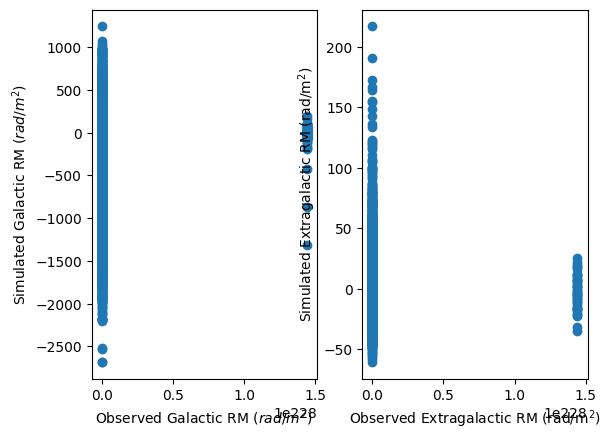
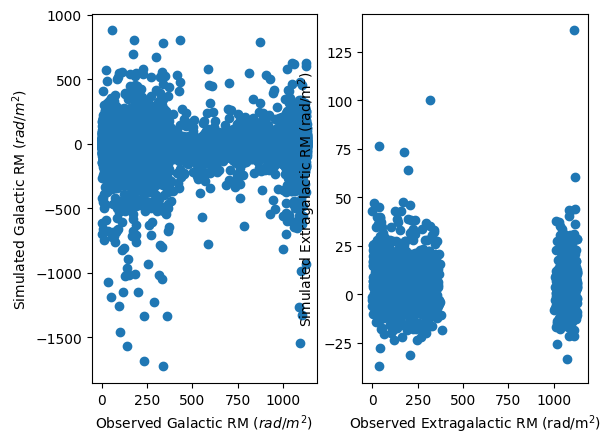
Correction of the noise settings for survey setup.

diff --git a/catalog_maker.py b/catalog_maker.py
@@ -22,7 +22,7 @@ class CatalogMaker():
             Egf.get_rm(filter_pulsars=True, version='custom', default_error_level=0.5)
 
         self.dest_data = self.dest_catalog if self.dest_catalog is not None else \
-            Egf.get_rm(filter_pulsars=True, version='custom', default_error_level=0.5)     
+            self.src_catalog     
 
         
 
@@ -40,13 +40,20 @@ class CatalogMaker():
 
         los=self.params['params_mock_cat.maker_params.n_los']
 
-
-        if self.params['params_mock_cat.maker_params.surveys.make_survey2'] == True:
-            bel_indices=np.where(abs(dest_data['b'][np.where(dest_data['catalog']==self.params['params_mock_cat.maker_params.surveys.name'])[0]])>self.params['params_mock_cat.maker_params.elev_th'])[0] 
-        else:
-            bel_indices=np.where(abs(dest_data['b'])>self.params['params_mock_cat.maker_params.elev_th'])[0] 
+        if self.params['params_mock_cat.maker_params.polar_caps'] == True:
+            if self.params['params_mock_cat.maker_params.surveys.make_survey'] == True:
+                b_sel_indices=np.where(abs(dest_data['b'][np.where(dest_data['catalog']==self.params['params_mock_cat.maker_params.surveys.name'])[0]])>self.params['params_mock_cat.maker_params.elev_th'])[0] 
+            else:
+                b_sel_indices=np.where(abs(dest_data['b'])>self.params['params_mock_cat.maker_params.elev_th'])[0] 
+        if self.params['params_mock_cat.maker_params.make_fraction'] == True:
+            los=np.int(self.params['params_mock_cat.maker_params.fraction']*dest_data['b'].size)
+            if self.params['params_mock_cat.maker_params.surveys.make_survey'] == True:
+                b_sel_indices=np.where(dest_data['catalog']==self.params['params_mock_cat.maker_params.surveys.name'])[0] 
+            else:
+                b_sel_indices=np.arange(0,dest_data['b'].size) 
+        
         np.random.seed(seed=self.params['params_mock_cat.maker_params.seed'])
-        z_mock_indices=np.unique(np.random.choice(bel_indices, size=los))
+        z_mock_indices=np.unique(np.random.choice(b_sel_indices, size=los))
         print('Number of LOS with redshift', len(z_mock_indices) )
 
 
@@ -55,6 +62,7 @@ class CatalogMaker():
 
         dest_data['z_best'][:] = np.nan
         dest_data['z_best'][z_mock_indices] = z_mock
+
 
         F_all = np.array(src_data['stokesI'])
         F_indices = np.where(F_all>0)[0]
@@ -124,31 +132,60 @@ class CatalogMaker():
 
         rm_data=np.array(eg_gal_data.val)
 
-        #creating mock sigma gal
-        #NVSS cat 2009ApJ...702.1230T
-        #LoTSS cat "LoTSS DR2 (O'Sullivan et al. 2022) "
-        cat_index_gal=np.where(src_data['catalog']==self.params['params_mock_cat.maker_params.cat_gal'])[0][~np.isnan(np.where(src_data['catalog']==self.params['params_mock_cat.maker_params.cat_gal'])[0])]
-        sigma_gal = src_data['rm_err'][cat_index_gal]
-        histogram_sigma_gal = rv_histogram(np.histogram(sigma_gal, bins=10000), density=False)
-        sigma_gal_mock=histogram_sigma_gal.rvs(size=ltheta-lerm)
-        sigma_gal_mock_field=ift.Field.from_raw(ift.UnstructuredDomain(ltheta-lerm),np.array(sigma_gal_mock))
-        N_gal = ift.DiagonalOperator(sigma_gal_mock_field**2, domain=ift.UnstructuredDomain(ltheta-lerm), sampling_dtype=np.float64)
+
+        if self.params['params_mock_cat.maker_params.surveys.make_survey'] == True:
+          
+            cat_index_1=np.where(dest_data['catalog']==self.params['params_mock_cat.maker_params.surveys.name'])[0]
+            sigma_1 = src_data['rm_err'][np.where(src_data['catalog']==self.params['params_mock_cat.maker_params.surveys.cat'])[0]]
+            histogram_sigma_1 = rv_histogram(np.histogram(sigma_1, bins=100), density=False)
+            sigma_1_mock=histogram_sigma_1.rvs(size=cat_index_1.size)
+            sigma_mock=np.empty(dest_data['catalog'].size)
+            sigma_mock[cat_index_1]=sigma_1_mock
+            print('sigma_mock cat1', sigma_1_mock.mean())
+
+            if self.params['params_mock_cat.maker_params.surveys.make_survey2'] == True:
+                cat_index_2=np.where(dest_data['catalog']==self.params['params_mock_cat.maker_params.surveys.name2'])[0]
+                sigma_2 = src_data['rm_err'][np.where(src_data['catalog']==self.params['params_mock_cat.maker_params.surveys.cat2'])[0]]
+                histogram_sigma_2 = rv_histogram(np.histogram(sigma_2, bins=100), density=False)
+                sigma_2_mock=histogram_sigma_2.rvs(size=cat_index_2.size)
+                sigma_mock[cat_index_2]=sigma_2_mock
+                print('sigma_mock cat2', sigma_2_mock.mean())
+                
+            sigma_mock_field=ift.Field.from_raw(ift.UnstructuredDomain(dest_data['catalog'].size),np.array(sigma_mock))
+            N = ift.DiagonalOperator(sigma_mock_field**2, domain=ift.UnstructuredDomain(sigma_mock_field.size), sampling_dtype=np.float64)
+
+            rm_data+= N.draw_sample().val
+            
+            
+
+        else:
+
+            #creating mock sigma gal
+            #NVSS cat 2009ApJ...702.1230T
+            #LoTSS cat "LoTSS DR2 (O'Sullivan et al. 2022) "
+            cat_index_gal=np.where(src_data['catalog']==self.params['params_mock_cat.maker_params.cat_gal'])[0][~np.isnan(np.where(src_data['catalog']==self.params['params_mock_cat.maker_params.cat_gal'])[0])]
+            sigma_gal = src_data['rm_err'][cat_index_gal]
+            histogram_sigma_gal = rv_histogram(np.histogram(sigma_gal, bins=10000), density=False)
+            sigma_gal_mock=histogram_sigma_gal.rvs(size=ltheta-lerm)
 
 
-        ### rm data assembly ###
-        rm_data[np.isnan(dest_data['z_best'])] +=  N_gal.draw_sample().val
-        print(rm_data.min(), rm_data.max(), rm_data.mean())
-
-        #creating mock sigma eg
-        cat_index_eg=np.where(src_data['catalog']==self.params['params_mock_cat.maker_params.cat_eg'])[0][~np.isnan(np.where(src_data['catalog']==self.params['params_mock_cat.maker_params.cat_eg'])[0])]
-        sigma_eg = src_data['rm_err'][cat_index_eg]
-        histogram_sigma_eg = rv_histogram(np.histogram(sigma_eg, bins=100), density=False)
-        sigma_eg_mock=histogram_sigma_eg.rvs(size=lerm)
-        sigma_eg_mock_field=ift.Field.from_raw(ift.UnstructuredDomain(lerm),np.array(sigma_eg_mock))
-        N_eg = ift.DiagonalOperator(sigma_eg_mock_field**2, domain=ift.UnstructuredDomain(lerm), sampling_dtype=np.float64)
-        rm_data[z_indices]+= N_eg.draw_sample().val
+            #creating mock sigma eg
+            cat_index_eg=np.where(src_data['catalog']==self.params['params_mock_cat.maker_params.cat_eg'])[0][~np.isnan(np.where(src_data['catalog']==self.params['params_mock_cat.maker_params.cat_eg'])[0])]
+            sigma_eg = src_data['rm_err'][cat_index_eg]
+            histogram_sigma_eg = rv_histogram(np.histogram(sigma_eg, bins=100), density=False)
+            sigma_eg_mock=histogram_sigma_eg.rvs(size=lerm)
 
 
+
+            sigma_mock=np.empty(ltheta)
+            sigma_mock[np.isnan(dest_data['z_best'])] = sigma_gal_mock
+            sigma_mock[z_indices] = sigma_eg_mock
+            sigma_mock_field=ift.Field.from_raw(ift.UnstructuredDomain(ltheta),np.array(sigma_mock))
+            N = ift.DiagonalOperator(sigma_mock_field**2, domain=ift.UnstructuredDomain(ltheta), sampling_dtype=np.float64)
+
+            rm_data+= N.draw_sample().val
+            print('sigma_mock eg', sigma_eg_mock.mean())
+            print('sigma_mock gal', sigma_gal_mock.mean())
 
         if self.params['params_mock_cat.maker_params.eg_on']==True:
             np.random.seed(seed=self.params['params_mock_cat.maker_params.seed'])
@@ -160,9 +197,7 @@ class CatalogMaker():
             print('mean',np.mean(egal_contr))
 
         noised_rm_data=ift.makeField(ift.UnstructuredDomain(ltheta), rm_data)
-        #Print noise
-        print('Gal noise', N_gal.draw_sample().val.std())
-        print('Egal noise', N_eg.draw_sample().val.std())
+
 
 
 
@@ -185,8 +220,9 @@ class CatalogMaker():
         plt.savefig('Mock_cat_obs_vs_sim.png', bbox_inches='tight')
 
         dest_data['rm'] = np.array(noised_rm_data.val)
-        dest_data['rm_err'][np.isnan(dest_data['z_best'])] =  sigma_gal_mock*np.ones(ltheta-lerm)
-        dest_data['rm_err'][~np.isnan(dest_data['z_best'])] =  sigma_eg_mock*np.ones(lerm)
+        dest_data['rm_err'] =  sigma_mock
+        #dest_data['rm_err'][np.isnan(dest_data['z_best'])] =  sigma_gal_mock*np.ones(ltheta-lerm)
+        #dest_data['rm_err'][~np.isnan(dest_data['z_best'])] =  sigma_eg_mock*np.ones(lerm)
         
         if self.params['params_mock_cat.maker_params.surveys.make_survey']==True:
             hdu= fits.open(self.params['params_inference.cat_path']+ self.params['params_mock_cat.maker_params.surveys.name']+'_catalog.fits')

diff --git a/survey_maker.py b/survey_maker.py
@@ -76,7 +76,7 @@ class SurveyMaker():
         dataref=np.empty(size_cat)
         cat_id=np.empty(size_cat)
         types=np.empty(size_cat)
-        notes=np.empty(size_cat)
+        notes=np.empty(size_cat, dtype='S10')
         z_best=np.empty(size_cat)
 
 
@@ -123,12 +123,20 @@ class SurveyMaker():
             all_indices[survey_indices2]=2
             catalog[params['params_mock_cat.maker_params.surveys.los']:]=params['params_mock_cat.maker_params.surveys.name2']
 
+            l=np.concatenate([l1,l2])
+            b=np.concatenate([b1,b2])
+            ra=np.concatenate([ra_deg1,ra_deg2])
+            dec=np.concatenate([dec_deg1,dec_deg2])
+
+        else:
+
+            l=l1
+            b=b1
+            ra=ra_deg1
+            dec=dec_deg1
+
         survey_indices_field=ift.Field(s_space_domain, all_indices)
 
-        l=np.concatenate([l1,l2])
-        b=np.concatenate([b1,b2])
-        ra=np.concatenate([ra_deg1,ra_deg2])
-        dec=np.concatenate([dec_deg1,dec_deg2])
 
         plot = ift.Plot()
         plot.add(survey_indices_field)

diff --git a/settings_maker.py b/settings_maker.py
@@ -27,7 +27,7 @@ class Settings_Maker():
                 survey_data=SurveyMaker(params).make_survey()
                 CatalogMaker(params, src_catalog=data, dest_catalog=survey_data).make_catalog()
             else:
-                CatalogMaker(params, src_catalog=data).make_catalog()
+                CatalogMaker(params, src_catalog=data, dest_catalog=None).make_catalog()
     
             data = Egf.get_rm(filter_pulsars=True, version=f'{catalog_version}_sim', default_error_level=0.5, params=params)
             logger.info("CREATED NEW MOCK CATALOG")        
